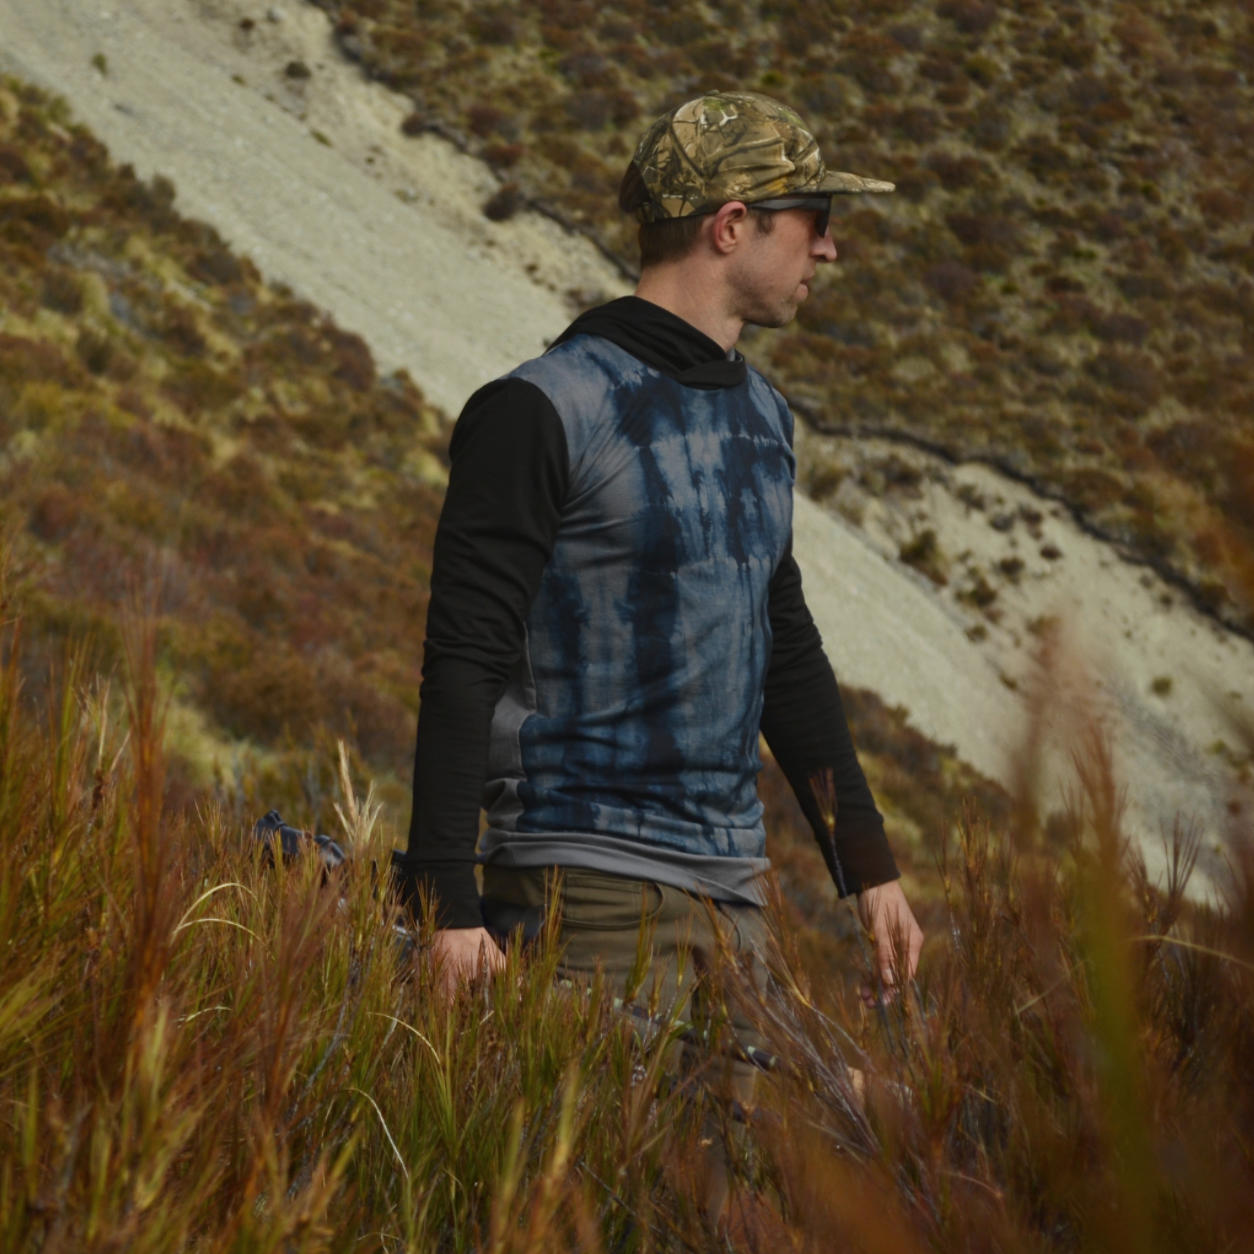
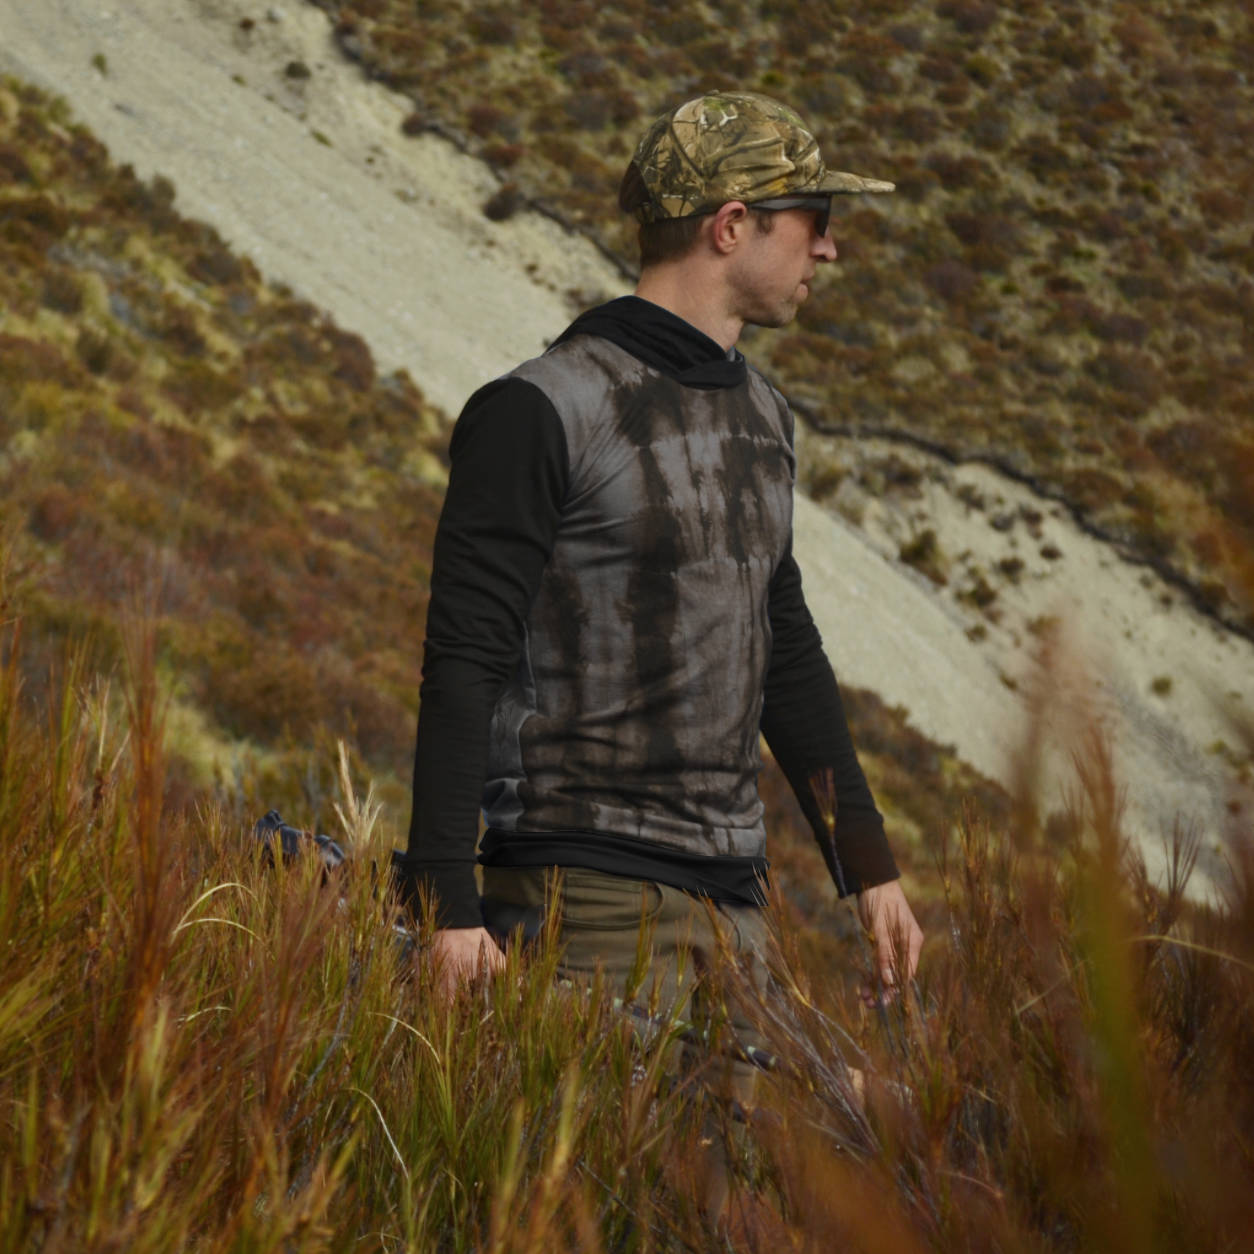
Update Rangitata hoodie imagery, pricing, and product copy

Changed region(s): [[0.3732, 0.2488, 0.6531, 0.7153], [0.3732, 0.5598, 0.4354, 0.5909]]

diff --git a/src/data/rangitataProducts.ts b/src/data/rangitataProducts.ts
@@ -7,11 +7,9 @@ import glassingHiddenMenBeech from '../assets/img/products/Mens_RangitataHoodie_
 import glassingCloseUpMenBeech from '../assets/img/products/Mens_RangitataHoodie_BeechGreenAndTussock/WildBalance_Mens200_GlassingCloseUp_Alpine.jpg';
 import backHoodieWalkingMenBeech from '../assets/img/products/Mens_RangitataHoodie_BeechGreenAndTussock/WildBalance_Mens200_BackHoodieWalking_Alpine.jpg';
 
-import blackGreywackeStandingMenGreywacke from '../assets/img/products/Mens_RangitataHoodie_GreywackeAndBlack/WildBalance_Mens200_BlackGreywacke_Standing.jpg';
-import blackGreywackeCrouchMenGreywacke from '../assets/img/products/Mens_RangitataHoodie_GreywackeAndBlack/WildBalance_Mens200_BlackGreywacke_Crouch.jpg';
-import blackGreywackeGlassingMenGreywacke from '../assets/img/products/Mens_RangitataHoodie_GreywackeAndBlack/WildBalance_Mens200_BlackGreywacke_Glassing.jpg';
-import blackGreywackeWalkingMenGreywacke from '../assets/img/products/Mens_RangitataHoodie_GreywackeAndBlack/WildBalance_Mens200_BlackGreywacke_Walking.jpg';
-import blackGreywackeWalkieTalkieMenGreywacke from '../assets/img/products/Mens_RangitataHoodie_GreywackeAndBlack/WildBalance_Mens200_BlackGreywacke_WalkieTalkie.jpg';
+import blackGreywackeStandingMenGreywacke from '../assets/img/products/Mens_RangitataHoodie_GreywackeAndBlack/WildBalance_Mens200_BlackGreywackeBlackDye_Standing.jpg';
+import blackGreywackeCrouchMenGreywacke from '../assets/img/products/Mens_RangitataHoodie_GreywackeAndBlack/WildBalance_Mens200_BlackGreywackeBlackDye_Crouch.jpg';
+import blackGreywackeWalkingMenGreywacke from '../assets/img/products/Mens_RangitataHoodie_GreywackeAndBlack/WildBalance_Mens200_BlackGreywackeBlackDye_Walking.jpg';
 
 import frontHoodDownWomenGreywacke from '../assets/img/products/Womens_RangitataHoodie_GreywackeAndBlack/WildBalance_WomensRangitata_Greywacke_FrontHoodDown_Alpine.jpg';
 import frontHoodDownWomenBeech from '../assets/img/products/Womens_RangitataHoodie_BeechGreenAndTussock/WildBalance_WomensRangitata_BeechGreen_FrontHoodDown_Alpine.jpg';
@@ -41,13 +39,14 @@ export interface ProductPageData {
 // Each block is used for both the men's and women's fit in that colourway.
 const beechCopy = {
 	description:
-		'Built for cold starts, breathable on long climbs, and warm while glassing the tops. Made from 200gsm pure merino wool, the lightweight fabric helps regulate temperature, moves moisture away from the skin, and stays comfortable as conditions change. Wear it on its own or layer it up. A generous hood gives extra coverage from the sun or when the weather turns, while the long sleeves add protection without the bulk of a heavier mid-layer. The fit is flexible, adaptable and made to move without getting in the way. Each hoodie is made to order in Christchurch, designed and sewn by people who spend time in the same country it’s made for. We only have a limited amount of Beech Green and Tussock fabric, so we’re making just 20 hoodies in these colours. If you’d like one, hit ‘Place Order’. We’ll get in touch to confirm your size and delivery details before taking payment and starting your hoodie.',
+		'Built for cold starts, breathable on long climbs, and warm while glassing the tops. Made from 200gsm pure merino wool, the lightweight fabric helps regulate temperature, moves moisture away from the skin, and stays comfortable as conditions change. Wear it on its own or layer it up. A generous hood gives extra coverage from the sun or when the weather turns, while the long sleeves add protection without the bulk of a heavier mid-layer. The fit is flexible, adaptable and made to move without getting in the way. Each hoodie is made to order in Christchurch, designed and sewn by people who spend time in the same country it’s made for. Engineered for the high country, the Tussock and Beech Green tones of this hoodie match the native sub-alpine scrub to help you stay concealed while glassing. The natural merino fabric eliminates the synthetic UV glow that game animals easily spot, while the contrasting block-coloured sleeves break up your outline against the hillside. We only have a limited amount of Beech Green and Tussock fabric, so we’re making just 20 hoodies in these colours. If you’d like one, hit ‘Place Order’. We’ll get in touch to confirm your size and delivery details before taking payment and starting your hoodie.',
 	priceLabel: 'Price: $195 NZD',
 	summaryLead: 'Built for cold starts, breathable on long climbs, and warm while glassing the tops.',
 	summaryParagraphs: [
 		'Made from 200gsm pure merino wool, the lightweight fabric helps regulate temperature, moves moisture away from the skin, and stays comfortable as conditions change. Wear it on its own or layer it up.',
 		'A generous hood gives extra coverage from the sun or when the weather turns, while the long sleeves add protection without the bulk of a heavier mid-layer. The fit is flexible, adaptable and made to move without getting in the way.',
 		'Each hoodie is made to order in Christchurch, designed and sewn by people who spend time in the same country it’s made for.',
+		'Engineered for the high country, the Tussock and Beech Green tones of this hoodie match the native sub-alpine scrub to help you stay concealed while glassing. The natural merino fabric eliminates the synthetic UV glow that game animals easily spot, while the contrasting block-coloured sleeves break up your outline against the hillside.',
 		'We only have a limited amount of Beech Green and Tussock fabric, so we’re making just 20 hoodies in these colours.',
 		'If you’d like one, hit ‘Place Order’. We’ll get in touch to confirm your size and delivery details before taking payment and starting your hoodie.',
 	],
@@ -55,16 +54,15 @@ const beechCopy = {
 
 const greywackeCopy = {
 	description:
-		'Almost ready. We’re still making a few final tweaks to the Greywacke colourway and dye process before launch, including finalising pricing. Each hoodie is made to order in Christchurch, New Zealand. Designed and sewn for real alpine use. Built for cold starts, breathable on long climbs, and warm while glassing the tops. Made from 200gsm pure merino wool, the fabric helps regulate temperature, moves moisture away from the skin, and stays comfortable across changing conditions. It works on its own or as part of a layering system. A generous hood gives extra coverage from the sun or when the weather turns, while the long sleeves add protection without the bulk of a heavier mid-layer. Greywacke uses a custom hand-dyed finish, so no two hoodies will be exactly the same.',
-	priceLabel: 'Price: $TBA',
-	summaryLead: 'Almost ready.',
+		'Built for cold starts, breathable on long climbs, and warm while glassing the tops. Made from 200gsm pure merino wool, the lightweight fabric helps regulate temperature, moves moisture away from the skin, and stays comfortable as conditions change. Wear it on its own or layer it up. A generous hood gives extra coverage from the sun or when the weather turns, while the long sleeves add protection without the bulk of a heavier mid-layer. The fit is flexible, adaptable and made to move without getting in the way. Each hoodie is made to order in Christchurch, designed and sewn by people who spend time in the same country it’s made for. Each Greywacke hoodie has a custom shibori dye job. The pattern creates natural camouflage that helps break up your outline to animals. Each garment is completely unique. If you’d like one, hit ‘Place Order’. We’ll get in touch to confirm your size and delivery details before taking payment and starting your hoodie.',
+	priceLabel: 'Price: $245 NZD',
+	summaryLead: 'Built for cold starts, breathable on long climbs, and warm while glassing the tops.',
 	summaryParagraphs: [
-		'We’re still making a few final tweaks to the Greywacke colourway and dye process before launch, including finalising pricing.',
-		'Each hoodie is made to order in Christchurch, New Zealand. Designed and sewn for real alpine use.',
-		'Built for cold starts, breathable on long climbs, and warm while glassing the tops.',
-		'Made from 200gsm pure merino wool, the fabric helps regulate temperature, moves moisture away from the skin, and stays comfortable across changing conditions. It works on its own or as part of a layering system.',
-		'A generous hood gives extra coverage from the sun or when the weather turns, while the long sleeves add protection without the bulk of a heavier mid-layer.',
-		'Greywacke uses a custom hand-dyed finish, so no two hoodies will be exactly the same.',
+		'Made from 200gsm pure merino wool, the lightweight fabric helps regulate temperature, moves moisture away from the skin, and stays comfortable as conditions change. Wear it on its own or layer it up.',
+		'A generous hood gives extra coverage from the sun or when the weather turns, while the long sleeves add protection without the bulk of a heavier mid-layer. The fit is flexible, adaptable and made to move without getting in the way.',
+		'Each hoodie is made to order in Christchurch, designed and sewn by people who spend time in the same country it’s made for.',
+		'Each Greywacke hoodie has a custom shibori dye job. The pattern creates natural camouflage that helps break up your outline to animals. Each garment is completely unique.',
+		'If you’d like one, hit ‘Place Order’. We’ll get in touch to confirm your size and delivery details before taking payment and starting your hoodie.',
 	],
 };
 
@@ -83,10 +81,12 @@ const createProduct = (
 	colourwayLabel: string,
 	gallery: {
 		frontDown: GalleryImage;
+		second?: GalleryImage;
 		frontUp?: GalleryImage;
 		side?: GalleryImage;
 		extraImages?: GalleryImage[];
 		backDown?: GalleryImage;
+		afterBackDown?: GalleryImage[];
 		backUp?: GalleryImage;
 	},
 	copy: { description: string; priceLabel: string; summaryLead: string; summaryParagraphs: string[] },
@@ -97,10 +97,12 @@ const createProduct = (
 	fitLabel,
 	galleryImages: [
 		gallery.frontDown,
+		...(gallery.second ? [gallery.second] : []),
 		...(gallery.frontUp ? [gallery.frontUp] : []),
 		...(gallery.side ? [gallery.side] : []),
 		...(gallery.extraImages ?? []),
 		...(gallery.backDown ? [gallery.backDown] : []),
+		...(gallery.afterBackDown ?? []),
 		...(gallery.backUp ? [gallery.backUp] : []),
 	],
 	pageTitle,
@@ -124,6 +126,11 @@ export const rangitataProducts = {
 				desktopSrc: frontHoodUpMenBeech.src,
 				mobileSrc: frontHoodUpMenBeech.src,
 			},
+			second: {
+				alt: 'Wild Balance men’s Rangitata hoodie hidden glassing view in Beech Green and Tussock.',
+				desktopSrc: glassingHiddenMenBeech.src,
+				mobileSrc: glassingHiddenMenBeech.src,
+			},
 			frontUp: {
 				alt: 'Wild Balance men’s Rangitata hoodie front view with hood down in Beech Green and Tussock.',
 				desktopSrc: frontHoodDownMenBeech.src,
@@ -136,19 +143,9 @@ export const rangitataProducts = {
 			},
 			extraImages: [
 				{
-					alt: 'Wild Balance men’s Rangitata hoodie hidden glassing view in Beech Green and Tussock.',
-					desktopSrc: glassingHiddenMenBeech.src,
-					mobileSrc: glassingHiddenMenBeech.src,
-				},
-				{
 					alt: 'Wild Balance men’s Rangitata hoodie glassing close-up in Beech Green and Tussock.',
 					desktopSrc: glassingCloseUpMenBeech.src,
 					mobileSrc: glassingCloseUpMenBeech.src,
-				},
-				{
-					alt: 'Wild Balance men’s Rangitata hoodie back walking view in Beech Green and Tussock.',
-					desktopSrc: backHoodieWalkingMenBeech.src,
-					mobileSrc: backHoodieWalkingMenBeech.src,
 				},
 			],
 			backDown: {
@@ -156,6 +153,13 @@ export const rangitataProducts = {
 				desktopSrc: backHoodDownMenBeech.src,
 				mobileSrc: backHoodDownMenBeech.src,
 			},
+			afterBackDown: [
+				{
+					alt: 'Wild Balance men’s Rangitata hoodie back walking view in Beech Green and Tussock.',
+					desktopSrc: backHoodieWalkingMenBeech.src,
+					mobileSrc: backHoodieWalkingMenBeech.src,
+				},
+			],
 			backUp: {
 				alt: 'Wild Balance men’s Rangitata hoodie back view with hood up in Beech Green and Tussock.',
 				desktopSrc: backHoodUpMenBeech.src,
@@ -165,35 +169,23 @@ export const rangitataProducts = {
 		beechCopy,
 	),
 	mensGreywacke: createProduct(
-		'Rangitata Merino Hoodie - Men\'s Fit - Greywacke / Black Shibori | Wild Balance',
+		'Rangitata Merino Hoodie - Men\'s Fit - Greywacke / Black Dye | Wild Balance',
 		'Rangitata Merino Hoodie',
 		'Men’s Fit',
-		'Greywacke / Black / Shibori Dye',
+		'Greywacke / Black Dye',
 		{
 			frontDown: {
-				alt: 'Wild Balance men’s Rangitata hoodie walking view in Greywacke and Black Shibori Dye.',
+				alt: 'Wild Balance men’s Rangitata hoodie walking view in Greywacke and Black Dye.',
 				desktopSrc: blackGreywackeWalkingMenGreywacke.src,
 				mobileSrc: blackGreywackeWalkingMenGreywacke.src,
 			},
 			frontUp: {
-				alt: 'Wild Balance men’s Rangitata hoodie crouching view in Greywacke and Black Shibori Dye.',
+				alt: 'Wild Balance men’s Rangitata hoodie crouching view in Greywacke and Black Dye.',
 				desktopSrc: blackGreywackeCrouchMenGreywacke.src,
 				mobileSrc: blackGreywackeCrouchMenGreywacke.src,
 			},
-			side: {
-				alt: 'Wild Balance men’s Rangitata hoodie glassing view in Greywacke and Black Shibori Dye.',
-				desktopSrc: blackGreywackeGlassingMenGreywacke.src,
-				mobileSrc: blackGreywackeGlassingMenGreywacke.src,
-			},
-			extraImages: [
-				{
-					alt: 'Wild Balance men’s Rangitata hoodie walkie talkie view in Greywacke and Black Shibori Dye.',
-					desktopSrc: blackGreywackeWalkieTalkieMenGreywacke.src,
-					mobileSrc: blackGreywackeWalkieTalkieMenGreywacke.src,
-				},
-			],
 			backDown: {
-				alt: 'Wild Balance men’s Rangitata hoodie standing view in Greywacke and Black Shibori Dye.',
+				alt: 'Wild Balance men’s Rangitata hoodie standing view in Greywacke and Black Dye.',
 				desktopSrc: blackGreywackeStandingMenGreywacke.src,
 				mobileSrc: blackGreywackeStandingMenGreywacke.src,
 			},
